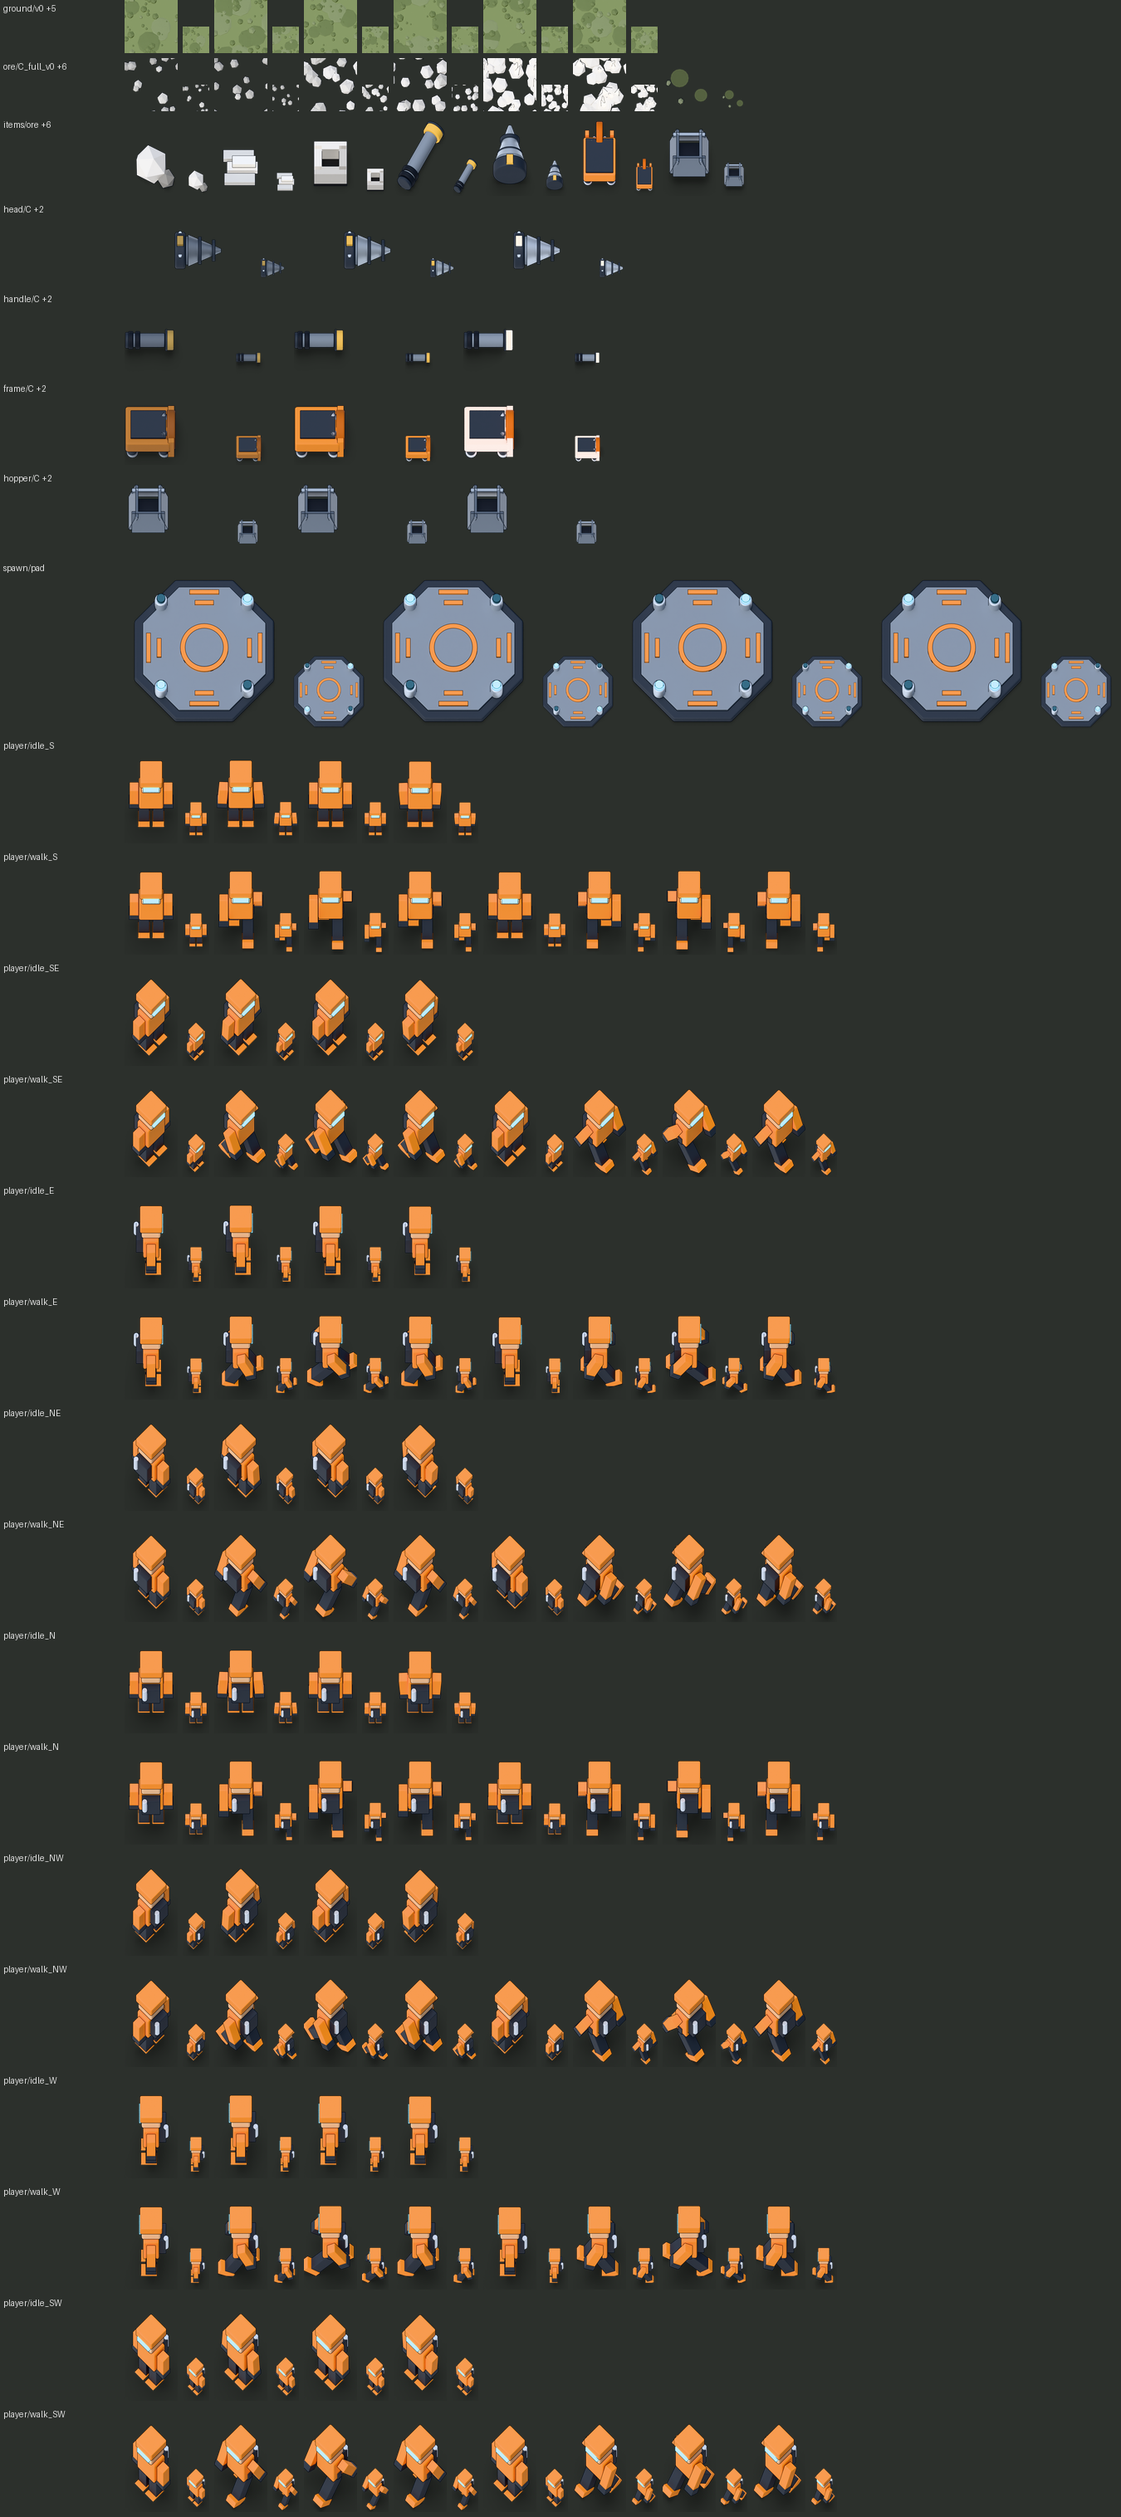
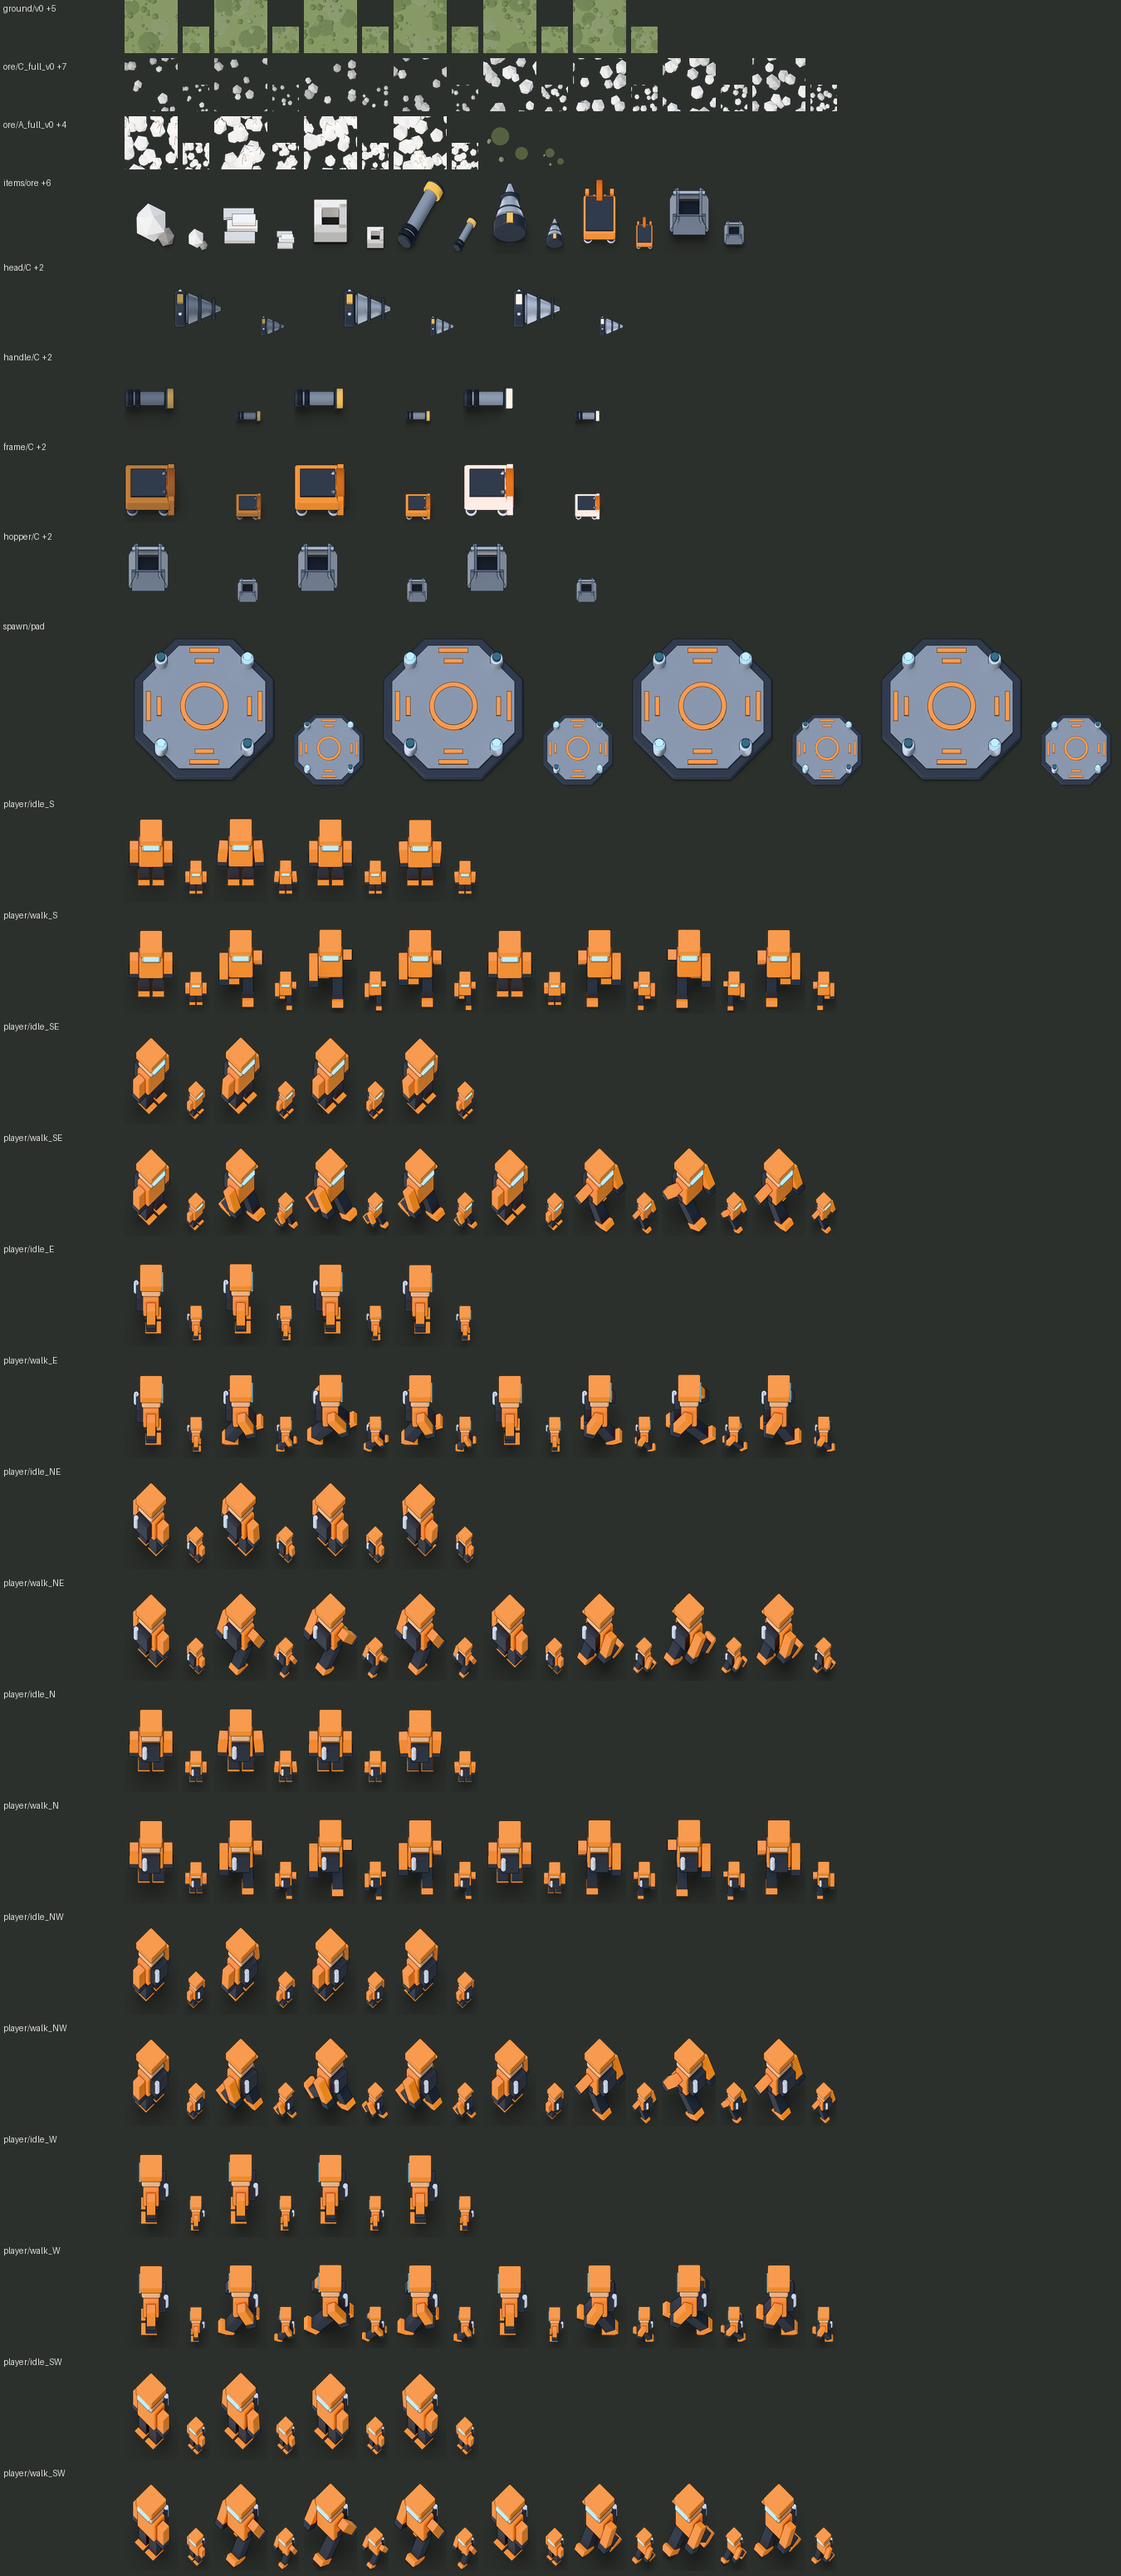
Ore gets four arrangements, and the client uses all of them (ASSA-115)
Part 3 of Maren's order. `ore.py`'s own header has said since ASSA-20 that the
lever for a stamped-on deposit is MORE ARRANGEMENT VARIANTS, NEVER DENSITY, so
`FULL_VARIANTS` goes 2 -> 4. Coverage, count and size are still a pure function
of `step`: every variant of a grade is the same amount of rock, moved.

THE EXISTING ROWS ARE BYTE-IDENTICAL. The old build walked one seed counter
down the rows, so inserting v2/v3 would have silently redrawn B and A's v0/v1 -
the exact rows `species_probe.py`, `loudness.py` and `check_headroom.py` read
as THE tile of a grade, and the rows ASSA-115's whole ore baseline was measured
on. `seed_for()` pins v0/v1 to the numbers they had and starts new variants at
20. Verified per row against origin/main: all 7 old rows identical, 6 new.
That is also why neither probe is re-run here: both read only `*_full_v0`.

THE CLIENT WAS COUNTING TO 2 IN A LITERAL. `scene_view.gd::ore_row` hardcoded
`variant_of(at, 2)`, so rendering v2/v3 would have passed every art check and
shipped two rows of art to a client that never asked for them - the same shape
as the ground that was rendered for a client that never opened it. It now
counts `<grade>_full_v*` out of the manifest, the way the ground above it
already counted its own rows. `test_the_view_uses_every_ore_arrangement_the_
sheet_ships` is the witness, and I proved it red against the old literal
before trusting it green: "the sheet ships `C_full_v2` and 200 tiles of grade C
never drew it".
[…]

diff --git a/sim-game/art/assets/ore.py b/sim-game/art/assets/ore.py
@@ -1,6 +1,6 @@
 """Ore deposit tiles, 1x1 and seamless. SPECIES-NEUTRAL: the client tints.
 
-Rows: <grade>_full_v<n> where grade is C, B or A, plus depleted_full. 7 rows,
+Rows: <grade>_full_v<n> where grade is C, B or A, plus depleted_full. 13 rows,
 and not one mineral name among them. A world rolls six species from its seed
 (ADR 0001) and no rule, recipe or sprite may name one, so the old 56 rows of
 iron / copper / coal / stone were art for a design that was withdrawn.
@@ -28,10 +28,13 @@ placing stop working, and a faded rim hides a hard rule. What ships is the
 digital disc the sim describes, which already staircases at tile resolution.
 
 IF IT EVER LOOKS STAMPED-ON, THE LEVER IS MORE ARRANGEMENT VARIANTS, NEVER
-DENSITY: v0/v1 move rocks around without claiming anything about quantity.
-Add v2/v3 before touching coverage again. REOPEN CONDITION, so this is not
-taste: if `amount` ever goes per-tile, or depletion eats a patch from the rim
-inward, the density step earns its mark back.
+DENSITY: a variant moves rocks around without claiming anything about
+quantity. v2/v3 were added on Maren's ASSA-115 order; coverage and density
+are untouched, and `count`/`smin`/`smax` below are still a pure function of
+`step`, so every variant of a grade is the SAME AMOUNT of rock in a different
+arrangement. REOPEN CONDITION, so this is not taste: if `amount` ever goes
+per-tile, or depletion eats a patch from the rim inward, the density step
+earns its mark back.
 
 THE LADDER IS THE SIM'S, NOT ONE I INVENTED. This file used to split purity
 1-25 / 26-50 / 51-75 / 76-100 while the sim splits it <40 / 40-69 / 70+. They
@@ -80,7 +83,7 @@ import rig
 from rig import mat
 
 out = rig.args()
-FULL_VARIANTS = 2
+FULL_VARIANTS = 4
 BASE, DARK, HI = rig.PALETTE["ore"], rig.PALETTE["ore_dk"], rig.PALETTE["ore_hi"]
 SIMGAME = os.path.dirname(os.path.dirname(os.path.dirname(os.path.abspath(__file__))))
 
@@ -197,12 +200,29 @@ def tile(step, seed):
     return r
 
 
+def seed_for(step, v):
+    """SEEDS ARE PINNED, so growing the variant count does not re-roll the
+    arrangements already judged.
+
+    The two-variant build walked one counter down the rows, which means
+    inserting v2 and v3 would have shifted every later row's seed and
+    silently redrawn B and A's v0/v1. Those two rows are not interchangeable
+    with any other: `species_probe.py`, `loudness.py` and `check_headroom.py`
+    all read `<grade>_full_v0` as THE tile of that grade, and ASSA-115's
+    whole ore baseline was measured on them. v0/v1 therefore keep the numbers
+    they already had; new variants start at 20 so the sequence can keep
+    growing without ever colliding.
+    """
+    return 1 + step * 2 + v if v < 2 else 20 + step * 2 + (v - 2)
+
+
+DEPLETED_SEED = 7  # what the two-variant walk happened to reach; also pinned
+
 asset = rig.Asset("ore", out, (1, 1))
-seed = 1
 for step, (letter, _min_purity) in enumerate(GRADES):
     for v in range(FULL_VARIANTS):
         row = f"{letter}_full_v{v}"
-        tile(step, seed).render(asset.path(row)); asset.add(row, 1); seed += 1
+        tile(step, seed_for(step, v)).render(asset.path(row)); asset.add(row, 1)
 row = "depleted_full"
-tile(-1, seed).render(asset.path(row)); asset.add(row, 1); seed += 1
+tile(-1, DEPLETED_SEED).render(asset.path(row)); asset.add(row, 1)
 asset.write()

diff --git a/sim-game/art/mock_scene.py b/sim-game/art/mock_scene.py
@@ -185,7 +185,11 @@ for species, cx, cy, r, grade in deposits:
     for y in range(H):
         for x in range(W):
             if not inside(x, y): continue
-            row = f"{grade}_full_v{random.randrange(2)}"
+            # Count the arrangements the sheet actually ships, the way the
+            # client does. A literal 2 here went stale the day v2/v3 landed.
+            n = sum(1 for r in man["ore"]["rows"]
+                    if r["name"].startswith(f"{grade}_full_v"))
+            row = f"{grade}_full_v{random.randrange(max(n, 1))}"
             blit(img, "ore", row, x, y, tint=SPECIES_TINTS[species])
 blit(img, "ore", "depleted_full", 1, 7, tint=SPECIES_TINTS[2])
 # PLANTED MACHINES, assembled from parts. Three different builds at three

diff --git a/sim-game/art/check_headroom.py b/sim-game/art/check_headroom.py
@@ -63,7 +63,9 @@ ALLOWED = {
     "frame/A":                   10.6,
     "items/frame":                9.9,
     "ore/A_full_v0":              9.9,
+    "ore/A_full_v2":              9.9,
     "ore/A_full_v1":              8.8,
+    "ore/A_full_v3":              8.3,
     "player/idle_S":              7.8,
     "player/walk_S":              7.8,
     "handle/A":                   6.8,
@@ -88,6 +90,8 @@ ALLOWED = {
     "frame/B":                    2.0,
     "ore/B_full_v0":              1.3,
     "ore/B_full_v1":              1.2,
+    "ore/B_full_v3":              1.2,
+    "ore/B_full_v2":              1.0,
     "items/head":                 1.0,
     "items/ore":                  0.9,
     "items/handle":               0.8,
